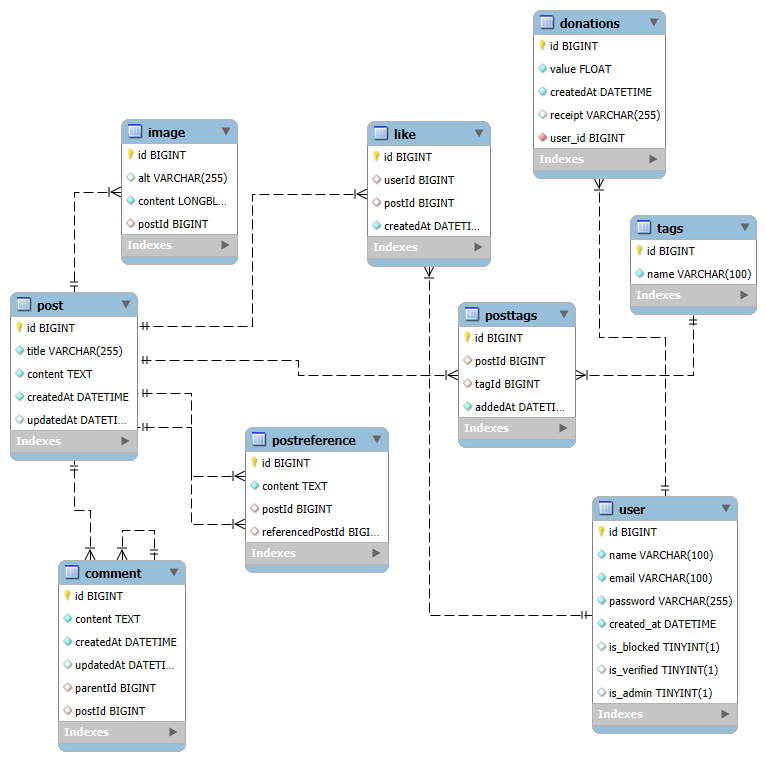
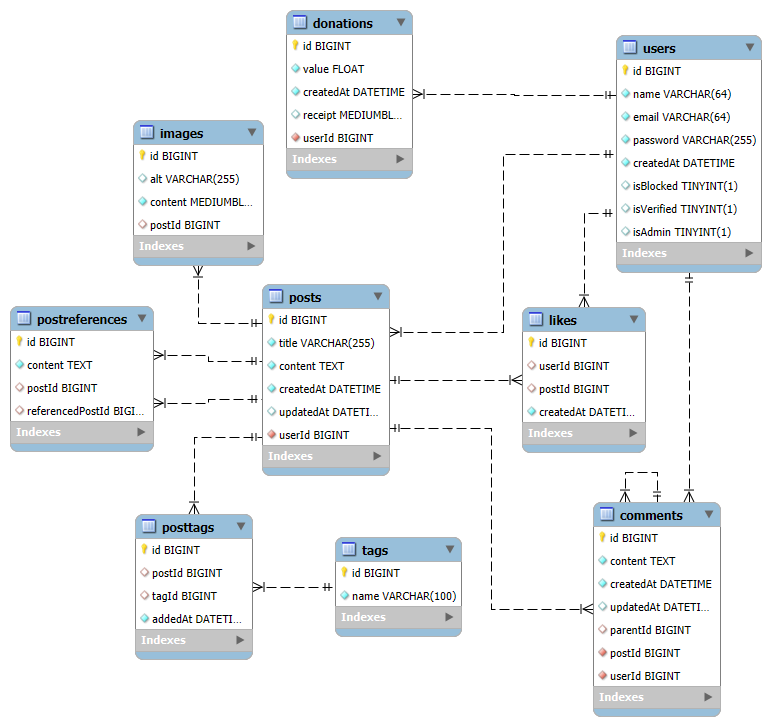
Fixes

diff --git a/backend/personalblog/src/main/java/com/yohandev/personalblog/controllers/UserController.java b/backend/personalblog/src/main/java/com/yohandev/personalblog/controllers/UserController.java
@@ -9,16 +9,16 @@ import com.yohandev.personalblog.dtos.DonationResDTO;
 import com.yohandev.personalblog.dtos.UserReqDTO;
 import com.yohandev.personalblog.dtos.UserResDTO;
 import com.yohandev.personalblog.dtos.UserUpdateDTO;
-import com.yohandev.personalblog.model.DonationModel;
 import com.yohandev.personalblog.services.DonationServices;
 import com.yohandev.personalblog.services.UserServices;
-import jakarta.persistence.EntityNotFoundException;
+import jakarta.transaction.Transactional;
 import jakarta.validation.Valid;
 import java.io.IOException;
 import java.util.List;
 import org.springframework.beans.factory.annotation.Autowired;
 import org.springframework.http.HttpStatus;
 import org.springframework.http.ResponseEntity;
+import org.springframework.validation.annotation.Validated;
 import org.springframework.web.bind.annotation.DeleteMapping;
 import org.springframework.web.bind.annotation.GetMapping;
 import org.springframework.web.bind.annotation.PathVariable;
@@ -39,7 +39,8 @@ public class UserController {
     private DonationServices donationServices;
 
     @PostMapping
-    public ResponseEntity<String> save(@Valid @RequestBody UserReqDTO userReqDTO) {
+    @Transactional
+    public ResponseEntity<String> saveUser(@Validated @RequestBody UserReqDTO userReqDTO) {
         userServices.saveUser(userReqDTO);
         return new ResponseEntity<>("User created successfully", HttpStatus.CREATED);
     }
@@ -57,37 +58,42 @@ public class UserController {
     }
 
     @PutMapping
+    @Transactional
     public ResponseEntity<String> updateUser(@Valid @RequestBody UserUpdateDTO userUpdateDTO) {
         userServices.updateUser(userUpdateDTO);
         return new ResponseEntity<>("User updated successfully", HttpStatus.OK);
     }
 
     @DeleteMapping("/{id}")
+    @Transactional
     public ResponseEntity<String> deleteUser(@PathVariable long id) {
         userServices.deleteUser(id);
         return new ResponseEntity<>("User deleted successfully", HttpStatus.OK);
     }
 
     //donations
-    @PostMapping("/users/{userId}/donations")
+    @PostMapping("{userId}/donations")
+    @Transactional
     public ResponseEntity<String> saveDonation(@PathVariable Long userId,@Valid @RequestBody DonationReqDTO donationReqDTO) throws IOException {
         donationServices.saveDonation(userServices.getUserById(userId), donationReqDTO);
         return new ResponseEntity<>("Donation created successfully", HttpStatus.CREATED);
     }
     
-    @GetMapping("/users/{userId}/donations")
+    @GetMapping("{userId}/donations")
     public ResponseEntity<?> getDonationsByUser(@PathVariable long userId, @PathVariable long id) {
         List<DonationResDTO> donations = DonationResDTO.convertToDonationResDTOList(donationServices.getDonationsByUser(userId));
         return new ResponseEntity<>(donations, HttpStatus.OK);
     }
     
-    @PutMapping("/users/{userId}/donations")
+    @PutMapping("{userId}/donations")
+    @Transactional
     public ResponseEntity<String> updateDonation(@PathVariable long userId, @Valid @RequestBody DonationReqDTO donationReqDTO) throws IOException {
         donationServices.updateDonation(userId, donationReqDTO);
         return new ResponseEntity<>("Donation updated successfully", HttpStatus.OK);
     }
     
-    @DeleteMapping("/users/{userId}/donations/{id}")
+    @DeleteMapping("{userId}/donations/{id}")
+    @Transactional
     public ResponseEntity<String> deleteDonation(@PathVariable long userId, @PathVariable long id) {
         donationServices.deleteDonation(userId, id);
         return new ResponseEntity<>("Donation deleted successfully", HttpStatus.OK);

diff --git a/backend/personalblog/src/main/java/com/yohandev/personalblog/dtos/DonationReqDTO.java b/backend/personalblog/src/main/java/com/yohandev/personalblog/dtos/DonationReqDTO.java
@@ -5,33 +5,33 @@
 package com.yohandev.personalblog.dtos;
 
 import com.yohandev.personalblog.model.DonationModel;
-import jakarta.validation.constraints.NotNull;
 import java.io.IOException;
-import org.springframework.web.multipart.MultipartFile;
 
 import jakarta.validation.constraints.NotNull;
 import jakarta.validation.constraints.Positive;
-import jakarta.validation.constraints.Size;
 import org.springframework.web.multipart.MultipartFile;
 
 public record DonationReqDTO(
         long id,
-
         @NotNull(message = "Donation value is required")
         @Positive(message = "Donation value must be greater than zero")
         float value,
-
-        @NotNull(message = "Receipt is required")
-        @Size(min = 1, max = 1048576, message = "Receipt size must be between 1 byte and 1 MB") // 1MB limit
         MultipartFile receipt,
-
         @NotNull(message = "User ID is required")
         long userId) {
 
     public DonationModel convertDTOToObject() throws IOException {
         DonationModel donation = new DonationModel();
+
+        if (receipt != null) {
+            if (receipt.getSize() > 2097152) {  // 2MB em bytes
+                throw new IllegalArgumentException("Receipt size must not exceed 2 MB");
+            } else if (receipt != null && receipt.getBytes() != null) {
+                donation.setReceipt(receipt.getBytes());
+            }
+        }
+
         donation.setValue(value);
-        donation.setReceipt(receipt.getBytes());
         return donation;
     }
 }

diff --git a/backend/personalblog/src/main/java/com/yohandev/personalblog/exceptions/GlobalExceptionHandler.java b/backend/personalblog/src/main/java/com/yohandev/personalblog/exceptions/GlobalExceptionHandler.java
@@ -6,8 +6,12 @@ package com.yohandev.personalblog.exceptions;
 
 import jakarta.persistence.EntityNotFoundException;
 import java.io.IOException;
+import java.util.HashMap;
+import java.util.Map;
 import org.springframework.http.HttpStatus;
 import org.springframework.http.ResponseEntity;
+import org.springframework.validation.FieldError;
+import org.springframework.web.bind.MethodArgumentNotValidException;
 import org.springframework.web.bind.annotation.ExceptionHandler;
 import org.springframework.web.bind.annotation.RestControllerAdvice;
 
@@ -27,6 +31,19 @@ public class GlobalExceptionHandler {
     @ExceptionHandler(IOException.class)
     public ResponseEntity<String> handleIOException(IOException ex) {
         return new ResponseEntity<>(ex.getMessage(), HttpStatus.BAD_REQUEST);
+    }
+    
+    @ExceptionHandler(MethodArgumentNotValidException.class)
+    public ResponseEntity<Map<String, String>> handleValidationExceptions(MethodArgumentNotValidException ex) {
+        Map<String, String> errors = new HashMap<>();
+        
+        ex.getBindingResult().getAllErrors().forEach(error -> {
+            String fieldName = ((FieldError) error).getField();
+            String errorMessage = error.getDefaultMessage();
+            errors.put(fieldName, errorMessage);
+        });
+        
+        return new ResponseEntity<>(errors, HttpStatus.BAD_REQUEST);
     }
     
     @ExceptionHandler(Exception.class)

diff --git a/backend/personalblog/src/main/java/com/yohandev/personalblog/controllers/TagController.java b/backend/personalblog/src/main/java/com/yohandev/personalblog/controllers/TagController.java
@@ -6,6 +6,8 @@ package com.yohandev.personalblog.controllers;
 
 import com.yohandev.personalblog.dtos.TagDTO;
 import com.yohandev.personalblog.services.TagServices;
+import jakarta.transaction.Transactional;
+import jakarta.validation.Valid;
 import java.util.List;
 import org.springframework.beans.factory.annotation.Autowired;
 import org.springframework.http.HttpStatus;
@@ -27,7 +29,8 @@ public class TagController {
     private TagServices tagServices;
 
     @PostMapping
-    public ResponseEntity<String> save(@RequestBody TagDTO tagDTO) {
+    @Transactional
+    public ResponseEntity<String> save(@Valid @RequestBody TagDTO tagDTO) {
         tagServices.saveTag(tagDTO);
         return new ResponseEntity<>("Tag created successfully", HttpStatus.CREATED);
     }
@@ -45,12 +48,14 @@ public class TagController {
     }
 
     @PutMapping
-    public ResponseEntity<String> update(@RequestBody TagDTO tagDTO) {
+    @Transactional
+    public ResponseEntity<String> update(@Valid @RequestBody TagDTO tagDTO) {
         tagServices.updateTag(tagDTO);
         return new ResponseEntity<>("Tag updated successfully", HttpStatus.OK);
     }
 
     @DeleteMapping("/{id}")
+    @Transactional
     public ResponseEntity<String> update(@PathVariable long id) {
         tagServices.deleteTag(id);
         return new ResponseEntity<>("Tag deleted successfully", HttpStatus.OK);

diff --git a/backend/personalblog/src/main/java/com/yohandev/personalblog/model/DonationModel.java b/backend/personalblog/src/main/java/com/yohandev/personalblog/model/DonationModel.java
@@ -4,7 +4,6 @@
  */
 package com.yohandev.personalblog.model;
 
-import jakarta.persistence.Column;
 import jakarta.persistence.Entity;
 import jakarta.persistence.GeneratedValue;
 import jakarta.persistence.GenerationType;
@@ -15,22 +14,22 @@ import jakarta.persistence.Table;
 import java.time.LocalDateTime;
 
 @Entity
-@Table(name = "donations")
+@Table(name = "Donations")
 public class DonationModel {
+
     @Id
     @GeneratedValue(strategy = GenerationType.IDENTITY)
     private long id;
     private float value;
     private LocalDateTime createdAt;
     private byte[] receipt;
-    
-    @Column(name = "user_id")
+
     @ManyToOne
-    @JoinColumn(name = "user_id", nullable = false)
+    @JoinColumn(name = "user_id", referencedColumnName = "id", nullable = false)
     private UserModel user;
-    
-    public DonationModel(){
-        
+
+    public DonationModel() {
+
     }
 
     public DonationModel(long id, float value, LocalDateTime createdAt, UserModel user, byte[] receipt) {

diff --git a/backend/personalblog/src/main/java/com/yohandev/personalblog/services/UserServices.java b/backend/personalblog/src/main/java/com/yohandev/personalblog/services/UserServices.java
@@ -9,10 +9,8 @@ import com.yohandev.personalblog.dtos.UserUpdateDTO;
 import com.yohandev.personalblog.model.UserModel;
 import com.yohandev.personalblog.repositories.UserRepository;
 import jakarta.persistence.EntityNotFoundException;
-import java.time.LocalDateTime;
 
 import java.util.List;
-import java.util.Optional;
 import org.springframework.beans.factory.annotation.Autowired;
 import org.springframework.security.crypto.bcrypt.BCrypt;
 import org.springframework.stereotype.Service;
@@ -33,9 +31,8 @@ public class UserServices extends Services {
         // Criptografar a senha
         userModel.setPassword(encryptPassword(userModel.getPassword()));
 
-        // Inserir a data atual
-        LocalDateTime now = LocalDateTime.now();
-        userModel.setCreatedAt(now);
+        // Inserir data e hora da criação
+        userModel.setCreatedAt(setDateTimeNow());
 
         userRepository.save(userModel);
     }

diff --git a/backend/personalblog/src/main/java/com/yohandev/personalblog/model/UserModel.java b/backend/personalblog/src/main/java/com/yohandev/personalblog/model/UserModel.java
@@ -5,7 +5,6 @@
 package com.yohandev.personalblog.model;
 
 import jakarta.persistence.CascadeType;
-import jakarta.persistence.Column;
 import jakarta.persistence.Entity;
 import jakarta.persistence.GeneratedValue;
 import jakarta.persistence.GenerationType;
@@ -13,11 +12,10 @@ import jakarta.persistence.Id;
 import jakarta.persistence.OneToMany;
 import jakarta.persistence.Table;
 import java.time.LocalDateTime;
-import java.util.ArrayList;
 import java.util.List;
 
 @Entity
-@Table(name = "user")
+@Table(name = "Users")
 public class UserModel {
     
     @Id
@@ -31,7 +29,7 @@ public class UserModel {
     private boolean isBlocked, isVerified, isAdmin;
     
     @OneToMany(mappedBy = "user", cascade = CascadeType.ALL, orphanRemoval = true)
-    private List<DonationModel> donations = new ArrayList<>();
+    private List<DonationModel> donations;
     
     public UserModel(){
         

diff --git a/backend/personalblog/src/main/java/com/yohandev/personalblog/dtos/UserReqDTO.java b/backend/personalblog/src/main/java/com/yohandev/personalblog/dtos/UserReqDTO.java
@@ -12,7 +12,7 @@ import jakarta.validation.constraints.Size;
 public record UserReqDTO(
 
     @NotNull(message = "Name is required")
-    @Size(min = 2, max = 64, message = "Name must be between 2 and 50 characters")
+    @Size(min = 3, max = 64, message = "Name must be between 3 and 64 characters")
     String name,
 
     @NotNull(message = "Email is required")
@@ -24,6 +24,10 @@ public record UserReqDTO(
     String password) {
 
     public UserModel convertDTOToObject() {
+        if (name == "" || email == "" || password == "") {
+            throw new IllegalArgumentException("User can not be null");
+        }
+        
         UserModel userModel = new UserModel();
         userModel.setName(this.name);
         userModel.setEmail(this.email);

diff --git a/backend/personalblog/src/main/java/com/yohandev/personalblog/services/DonationServices.java b/backend/personalblog/src/main/java/com/yohandev/personalblog/services/DonationServices.java
@@ -10,7 +10,6 @@ import com.yohandev.personalblog.model.UserModel;
 import com.yohandev.personalblog.repositories.DonationRepository;
 import jakarta.persistence.EntityNotFoundException;
 import java.io.IOException;
-import java.time.LocalDateTime;
 import java.util.List;
 import org.springframework.stereotype.Service;
 
@@ -27,8 +26,7 @@ public class DonationServices extends Services {
         DonationModel donation = donationReqDTO.convertDTOToObject();
         donation.setUser(user);
         
-        LocalDateTime now = LocalDateTime.now();
-        donation.setCreatedAt(now);
+        donation.setCreatedAt(setDateTimeNow());
         
         donationRepository.save(donation);
     }

diff --git a/backend/personalblog/src/main/java/com/yohandev/personalblog/dtos/UserUpdateDTO.java b/backend/personalblog/src/main/java/com/yohandev/personalblog/dtos/UserUpdateDTO.java
@@ -9,16 +9,12 @@ import jakarta.validation.constraints.Email;
 import jakarta.validation.constraints.NotNull;
 import jakarta.validation.constraints.Size;
 
-/**
- *
- * @author Yohan
- */
 public record UserUpdateDTO(
         @NotNull
         long id,
         
         @NotNull(message = "Name is required")
-        @Size(min = 2, max = 64, message = "Name must be between 2 and 50 characters")
+        @Size(min = 3, max = 64, message = "Name must be between 2 and 64 characters")
         String name,
         
         @NotNull(message = "Email is required")

diff --git a/backend/personalblog/src/main/java/com/yohandev/personalblog/model/TagModel.java b/backend/personalblog/src/main/java/com/yohandev/personalblog/model/TagModel.java
@@ -2,8 +2,9 @@
  * Click nbfs://nbhost/SystemFileSystem/Templates/Licenses/license-default.txt to change this license
  * Click nbfs://nbhost/SystemFileSystem/Templates/Classes/Class.java to edit this template
  */
-package com.yohandev.personalblog.model.tag;
+package com.yohandev.personalblog.model;
 
+import com.yohandev.personalblog.model.NameTag;
 import jakarta.persistence.Entity;
 import jakarta.persistence.EnumType;
 import jakarta.persistence.Enumerated;

diff --git a/backend/personalblog/src/main/java/com/yohandev/personalblog/services/TagServices.java b/backend/personalblog/src/main/java/com/yohandev/personalblog/services/TagServices.java
@@ -5,8 +5,8 @@
 package com.yohandev.personalblog.services;
 
 import com.yohandev.personalblog.dtos.TagDTO;
-import com.yohandev.personalblog.model.tag.NameTag;
-import com.yohandev.personalblog.model.tag.TagModel;
+import com.yohandev.personalblog.model.NameTag;
+import com.yohandev.personalblog.model.TagModel;
 import com.yohandev.personalblog.repositories.TagRepository;
 import jakarta.persistence.EntityNotFoundException;
 import java.util.List;
